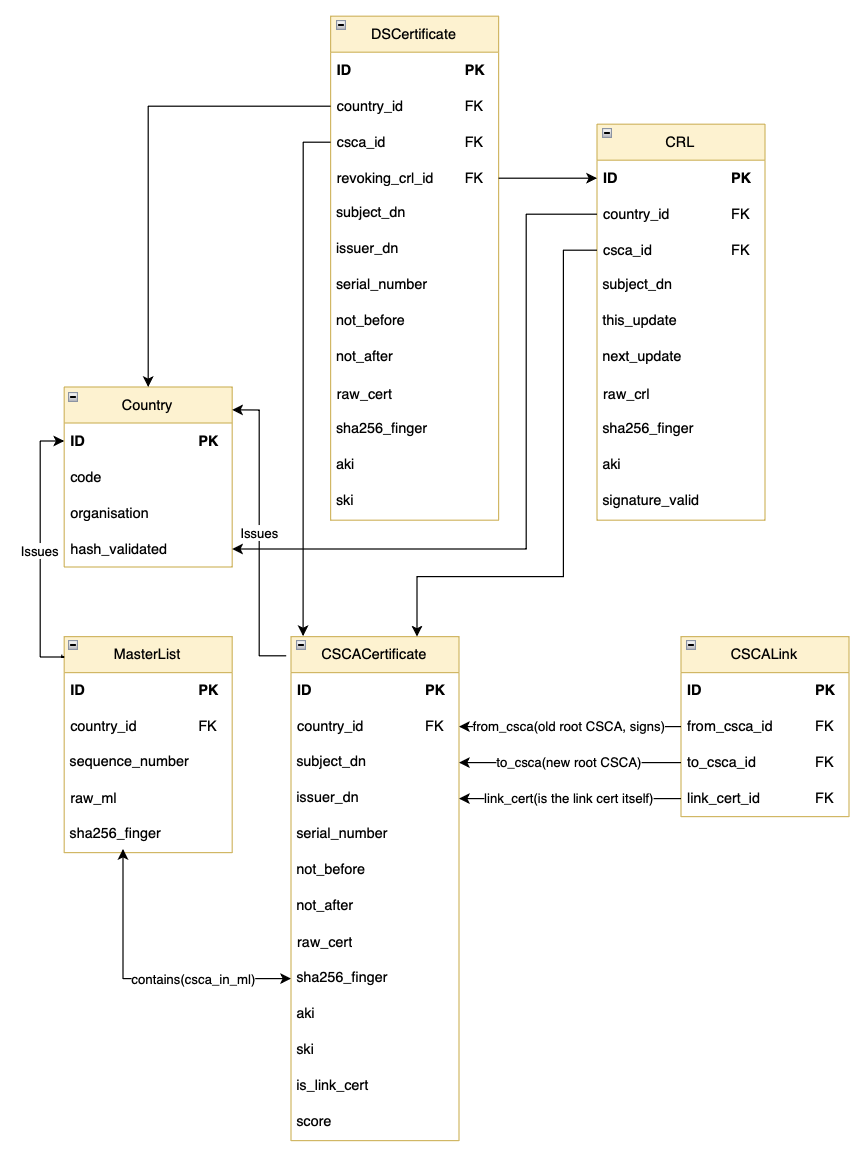
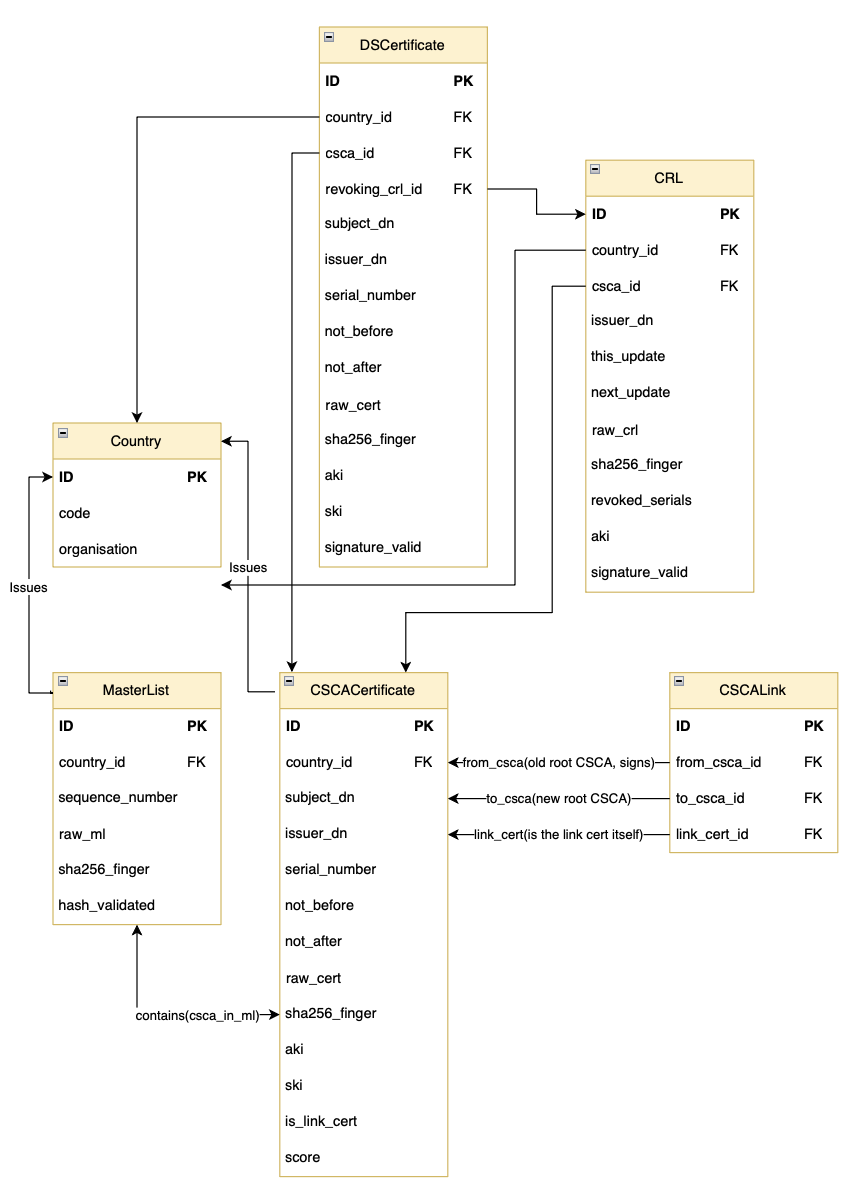
update readme fully

Changed region(s): [[0.0, 0.0, 1.0, 1.0]]

diff --git a/PKD/graph/crl_builder.py b/PKD/graph/crl_builder.py
@@ -1,9 +1,10 @@
 """
-    Link CRL to certificate and validate signature.
+    Link CRL to certificate to DSC
+
+    BUILD_REVOCATIONS : Links CRL serials to DS certificates
 """
 
-from PKD.verify.verify_cert import _verify_crl_signature, _get_publickey
-from PKD.db_models import CSCACertificate, CRL, DSCertificate
+from PKD.db_models import CRL, DSCertificate
 
 from datetime import datetime
 import logging
@@ -14,61 +15,12 @@ class CRLGraphBuilder:
     def __init__(self, session):
         self.session = session
 
-    def build(self):
-        crls = self.session.query(CRL).all()
-        csca_certs = self.session.query(CSCACertificate).filter_by(is_link_cert=False).all()
-
-        ski_index = self._build_ski_index(csca_certs)
+    def build_revocations(self):
+        crls = self.session.query(CRL).filter_by(signature_valid=True).all()
 
         for crl in crls:
-            self._process_crl(crl, ski_index)
-
-    def _build_ski_index(self, certs):
-        index = {}
-        for cert in certs:
-            if cert.ski:
-                index[cert.ski] = cert
-        return index
-
-    def _process_crl(self, crl: CRL, ski_index: dict):
-        if not crl.aki:
-            logger.warning(
-                "CRL has no AKI, cannot link to CSCA",
-                extra={"crl_id": crl.id, "issuer_dn": crl.issuer_dn},
-            )
-            return
-
-        issuing_csca = ski_index.get(crl.aki)
-
-        if issuing_csca is None:
-            logger.warning(
-                "No matching CSCA found for CRL",
-                extra={"crl_id": crl.id, "issuer_dn": crl.issuer_dn},
-            )
-            return
-
-        # link it
-        crl.csca_id = issuing_csca.id
-
-        # verify signature
-        try:
-            issuer_pubkey = _get_publickey(issuing_csca)
-            crl.signature_valid = _verify_crl_signature(crl.raw_crl, issuer_pubkey)
-        except Exception:
-            logger.exception(
-                "Error verifying CRL signature",
-                extra={"crl_id": crl.id, "issuer_id": issuing_csca.id},
-            )
-            crl.signature_valid = False
-
-        if not crl.signature_valid:
-            logger.warning(
-                "CRL signature invalid",
-                extra={"crl_id": crl.id, "issuer_id": issuing_csca.id},
-            )
-        
-        # Only when crl valid
-        self._apply_revocations(crl)
+            # Only when crl valid
+            self._apply_revocations(crl)
 
     def _apply_revocations(self, crl: CRL):
         if not crl.revoked_serials:

diff --git a/extended/upload_validate_dsc.py b/extended/upload_validate_dsc.py
@@ -16,8 +16,13 @@ from asn1crypto import x509 as asn1_x509
 
 from PKD.db_models import SessionLocal, CSCACertificate
 
+import os
 from pathlib import Path
-ICAO_LDIF_PATH = Path("data/icaopkd-001-complete-10203.ldif")
+from dotenv import load_dotenv
+
+load_dotenv()
+
+ICAO_LDIF_PATH = Path(os.getenv("ICAO_LDIF_PATH", "data/icaopkd-001-complete-10203.ldif"))
 
 def get_candidate_cscas(session, country_id: int, aki: bytes | None) -> list[CSCACertificate]:
     candidates = (
@@ -34,6 +39,7 @@ def upload_validate_dsc():
         country_repo = CountryRepository(session)
 
         with ICAO_LDIF_PATH.open("rb") as f:
+            print("===== Start loading DS Certificates =====")
             parser = ParseLDIF(f)
 
             for data in parser.process_file():
@@ -57,7 +63,7 @@ def upload_validate_dsc():
             session.commit()
 
             # Link CRL to CSCAs
-            CRLGraphBuilder(session).build()
+            CRLGraphBuilder(session).build_revocations()
 
             session.commit()
     

diff --git a/tests/dsc_test.py b/tests/dsc_test.py
@@ -9,8 +9,13 @@ def test_dsc():
         DSCs = session.query(DSCertificate).all()
         for ds in DSCs:
             if ds.revoking_crl_id != None:
-                print(f"DS Certificate found for {ds.country.code} with CSCA {ds.csca_id} and CRL {ds.revoking_crl_id}")
+                print(f"DS Certificate found for {ds.country.code}, {ds.sha256_finger} with CSCA {ds.csca_id} and CRL {ds.revoking_crl_id} is revoked")
                 is_revoked +=1
+            if ds.issuing_csca == None:
+                #print(f"DS Certificate found for {ds.country.code} has no matching CSCA")
+                continue
+            elif ds.issuing_csca.score == 0:
+                print(f"DS Certificate found for {ds.country.code}, {ds.finger_print} with CSCA {ds.csca_id} has red trust score")
         
         print(f"There are {is_revoked} DSCs revoked")
 

diff --git a/PKD/graph/ds_builder.py b/PKD/graph/ds_builder.py
@@ -12,8 +12,9 @@ from datetime import datetime, timezone
 
 def is_within_validity(not_before: datetime, not_after: datetime, at: datetime | None = None) -> bool:
     at = at or datetime.now(timezone.utc)
+    if at.tzinfo is not None:
+        at = at.replace(tzinfo=None)
     return not_before <= at <= not_after
-
 
 
 class DSGraphBuilder:

diff --git a/extended/upload_crl.py b/extended/upload_crl.py
@@ -8,6 +8,8 @@ from CRL.get_crl import GetCRL
 
 from PKD.db_models import SessionLocal, CSCACertificate
 
+from PKD.graph.crl_builder import CRLGraphBuilder
+
 INCLUDE_ICAO = True
 
 def extend_with_CRL():

diff --git a/README.md b/README.md
@@ -139,6 +139,34 @@ A CSCA root gains one trust point for each of the following, independently satis
 
 This is not a complete implementation of ICAO's methodology: ICAO's own criteria also include direct bilateral exchange with a trusted contact at the issuing authority, which this implementation cannot replicate.
 
+## Extended functions
+
+The extended functions that populate the added tables exist in `extended`.
+
+- `extended/upload_crl.py`: fetches all CRLs for the currently loaded CSCAs and loads
+  them into the database. It uses `CRL/get_crl.py`, which validates each CRL's signature
+  against the CSCA and relates it. You can include or exclude the ICAO distribution points
+  by setting `INCLUDE_ICAO`.
+
+- `extended/upload_validate_dsc.py`: demonstrates how a DS certificate is validated,
+  linked to its issuing CSCA, and checked for revocation. Since DS certificates can only
+  realistically be obtained from real passports or from the ICAO PKD, this script reads
+  from a downloaded ICAO PKD LDIF snapshot.
+
+  1. Download the PKI Objects LDIF file from the [ICAO PKD download page](https://pkddownload.icao.int/)
+     (requires agreeing to their Terms & Conditions).
+  2. Set `ICAO_LDIF_PATH` in `.env` to the downloaded file's path.
+  3. Run the script. For each DS certificate found, it parses and stores the certificate,
+     then runs `DSGraphBuilder` to link it to its issuing CSCA and verify its signature,
+     and `CRLGraphBuilder` to check it against any known CRLs for revocation.
+
+  **Important** the ICAO PKD LDIF file is not permitted for commercial use. This script is
+  intended for testing only.
+
+  You must run first `PKDimporter.py` then `upload_crl.py` and lastly `upload_validate_dsc.py`, since the 
+  script links DSCs against CSCAs and CRLs that are expected to already be in the database.
+
+
 ## Known issues and data quirks
 
 Real-world ICAO PKD data is not uniformly spec-conformant. Confirmed cases
@@ -189,11 +217,11 @@ Missing countries expected (14-07-2026) : ['AM', 'MV', 'PY', 'ZZ']
 Here, 'ZZ' can be found in the ICAO PKD but is likely from certificates with unknown issuers.
 
 ### CRL Distribution points  `crldistr_test.py`
-Loops through all CSCA certificates in the database to check for CRL distribution point.
-Stores and prints the countries where it succesfully fetched a CRL. Urls that point to
-the ICAO database can be filtered out by setting the parameter `INCLUDE_ICAO = False`.
+Loops through all CRLs and check which serial numbers are found.
+You can set `INCLUDE_ICAO = False` to not include the ICAO distribution points.
 The test can take a while to finish, depending on how many certificates and URLs are available.
-Results expected (14-07-2026) : verified CRLs no ICAO : 37, with ICAO : 86.
+Results expected (14-07-2026) : verified CRLs no ICAO : 37 countries , with ICAO : 86 countries.
+AQ total of 100 CRLs including ICAO, whereof 66 empty.
 
 ### Fingerprint irregularities `fingerprint_test.py`
 Prints inconsistencies of certificates. Checks if each sha256 fingerprint maps to exactly one row 
@@ -232,3 +260,7 @@ Results expected (14-07-2026) :
 AR, GR, IN, and SM appear in more than one category, indicating multiple CSCA certificates per
 country code with differing trust scores.
 
+### DS Certificate `dsc_test.py`
+This prints the revoked DS Certificate number with the corresponding country and CRL.
+Results expected (17-07-2026) : only one DS certificates who were in the .ldif file are revoked.
+Two are printed, DS certificate for AO with CSCA 71 in CRL 20. These certifacetes have different fingerprints.
